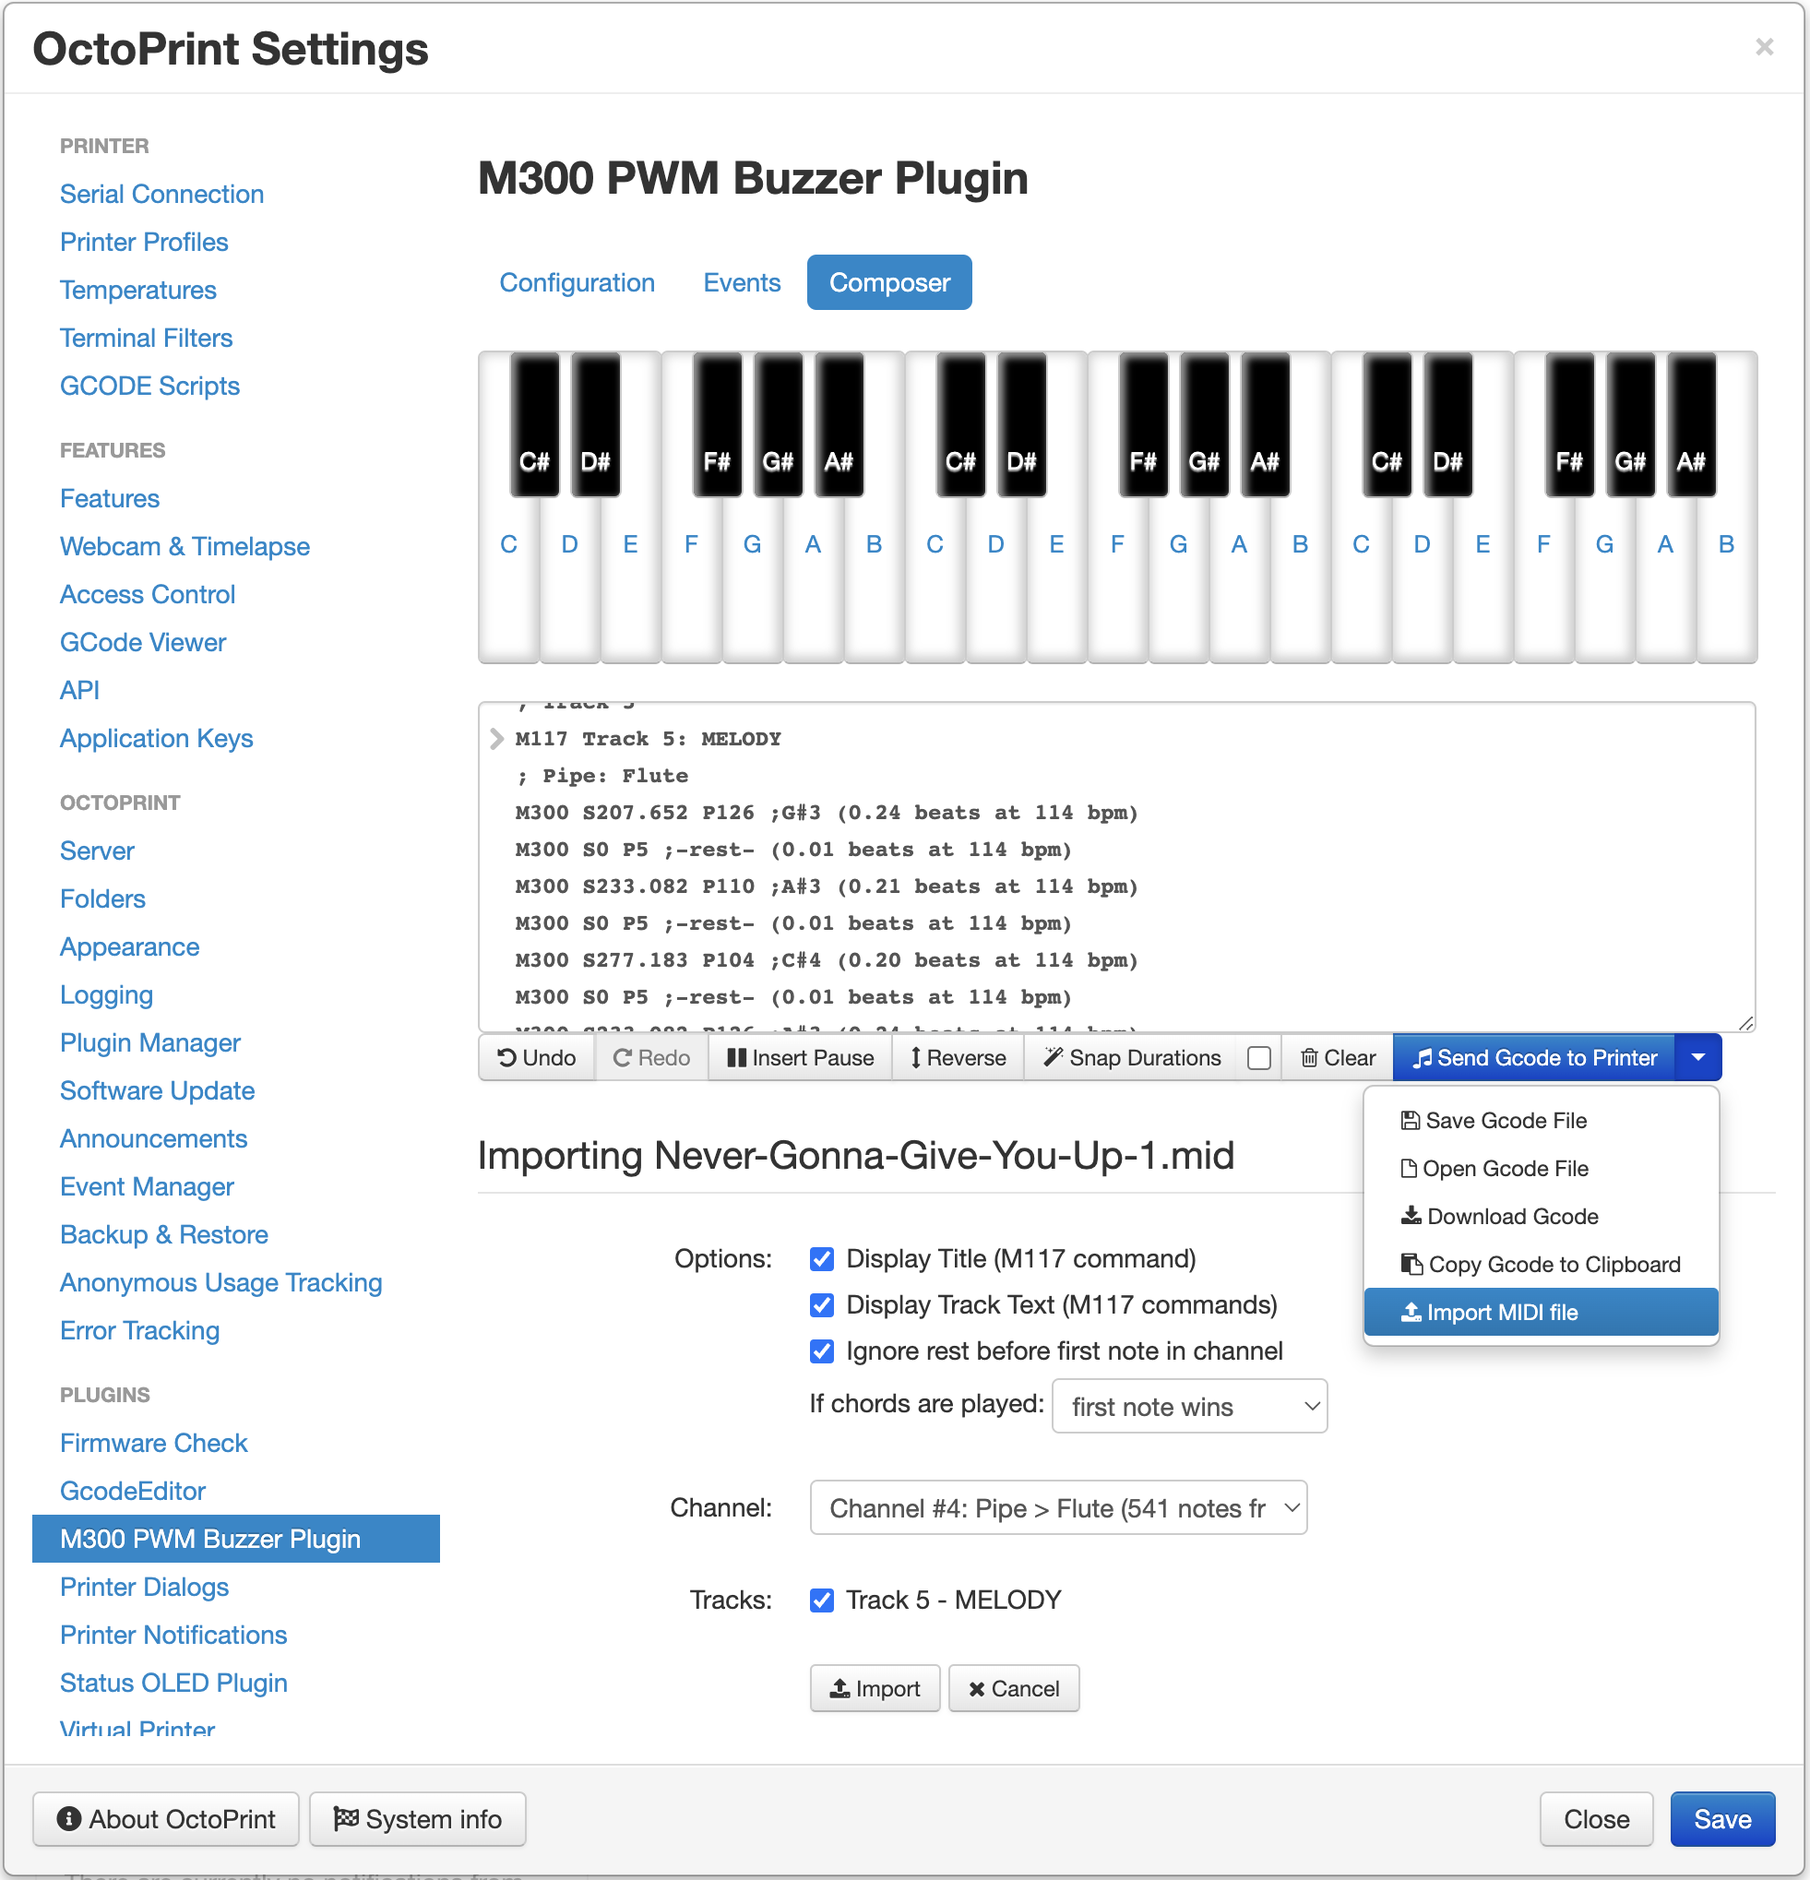
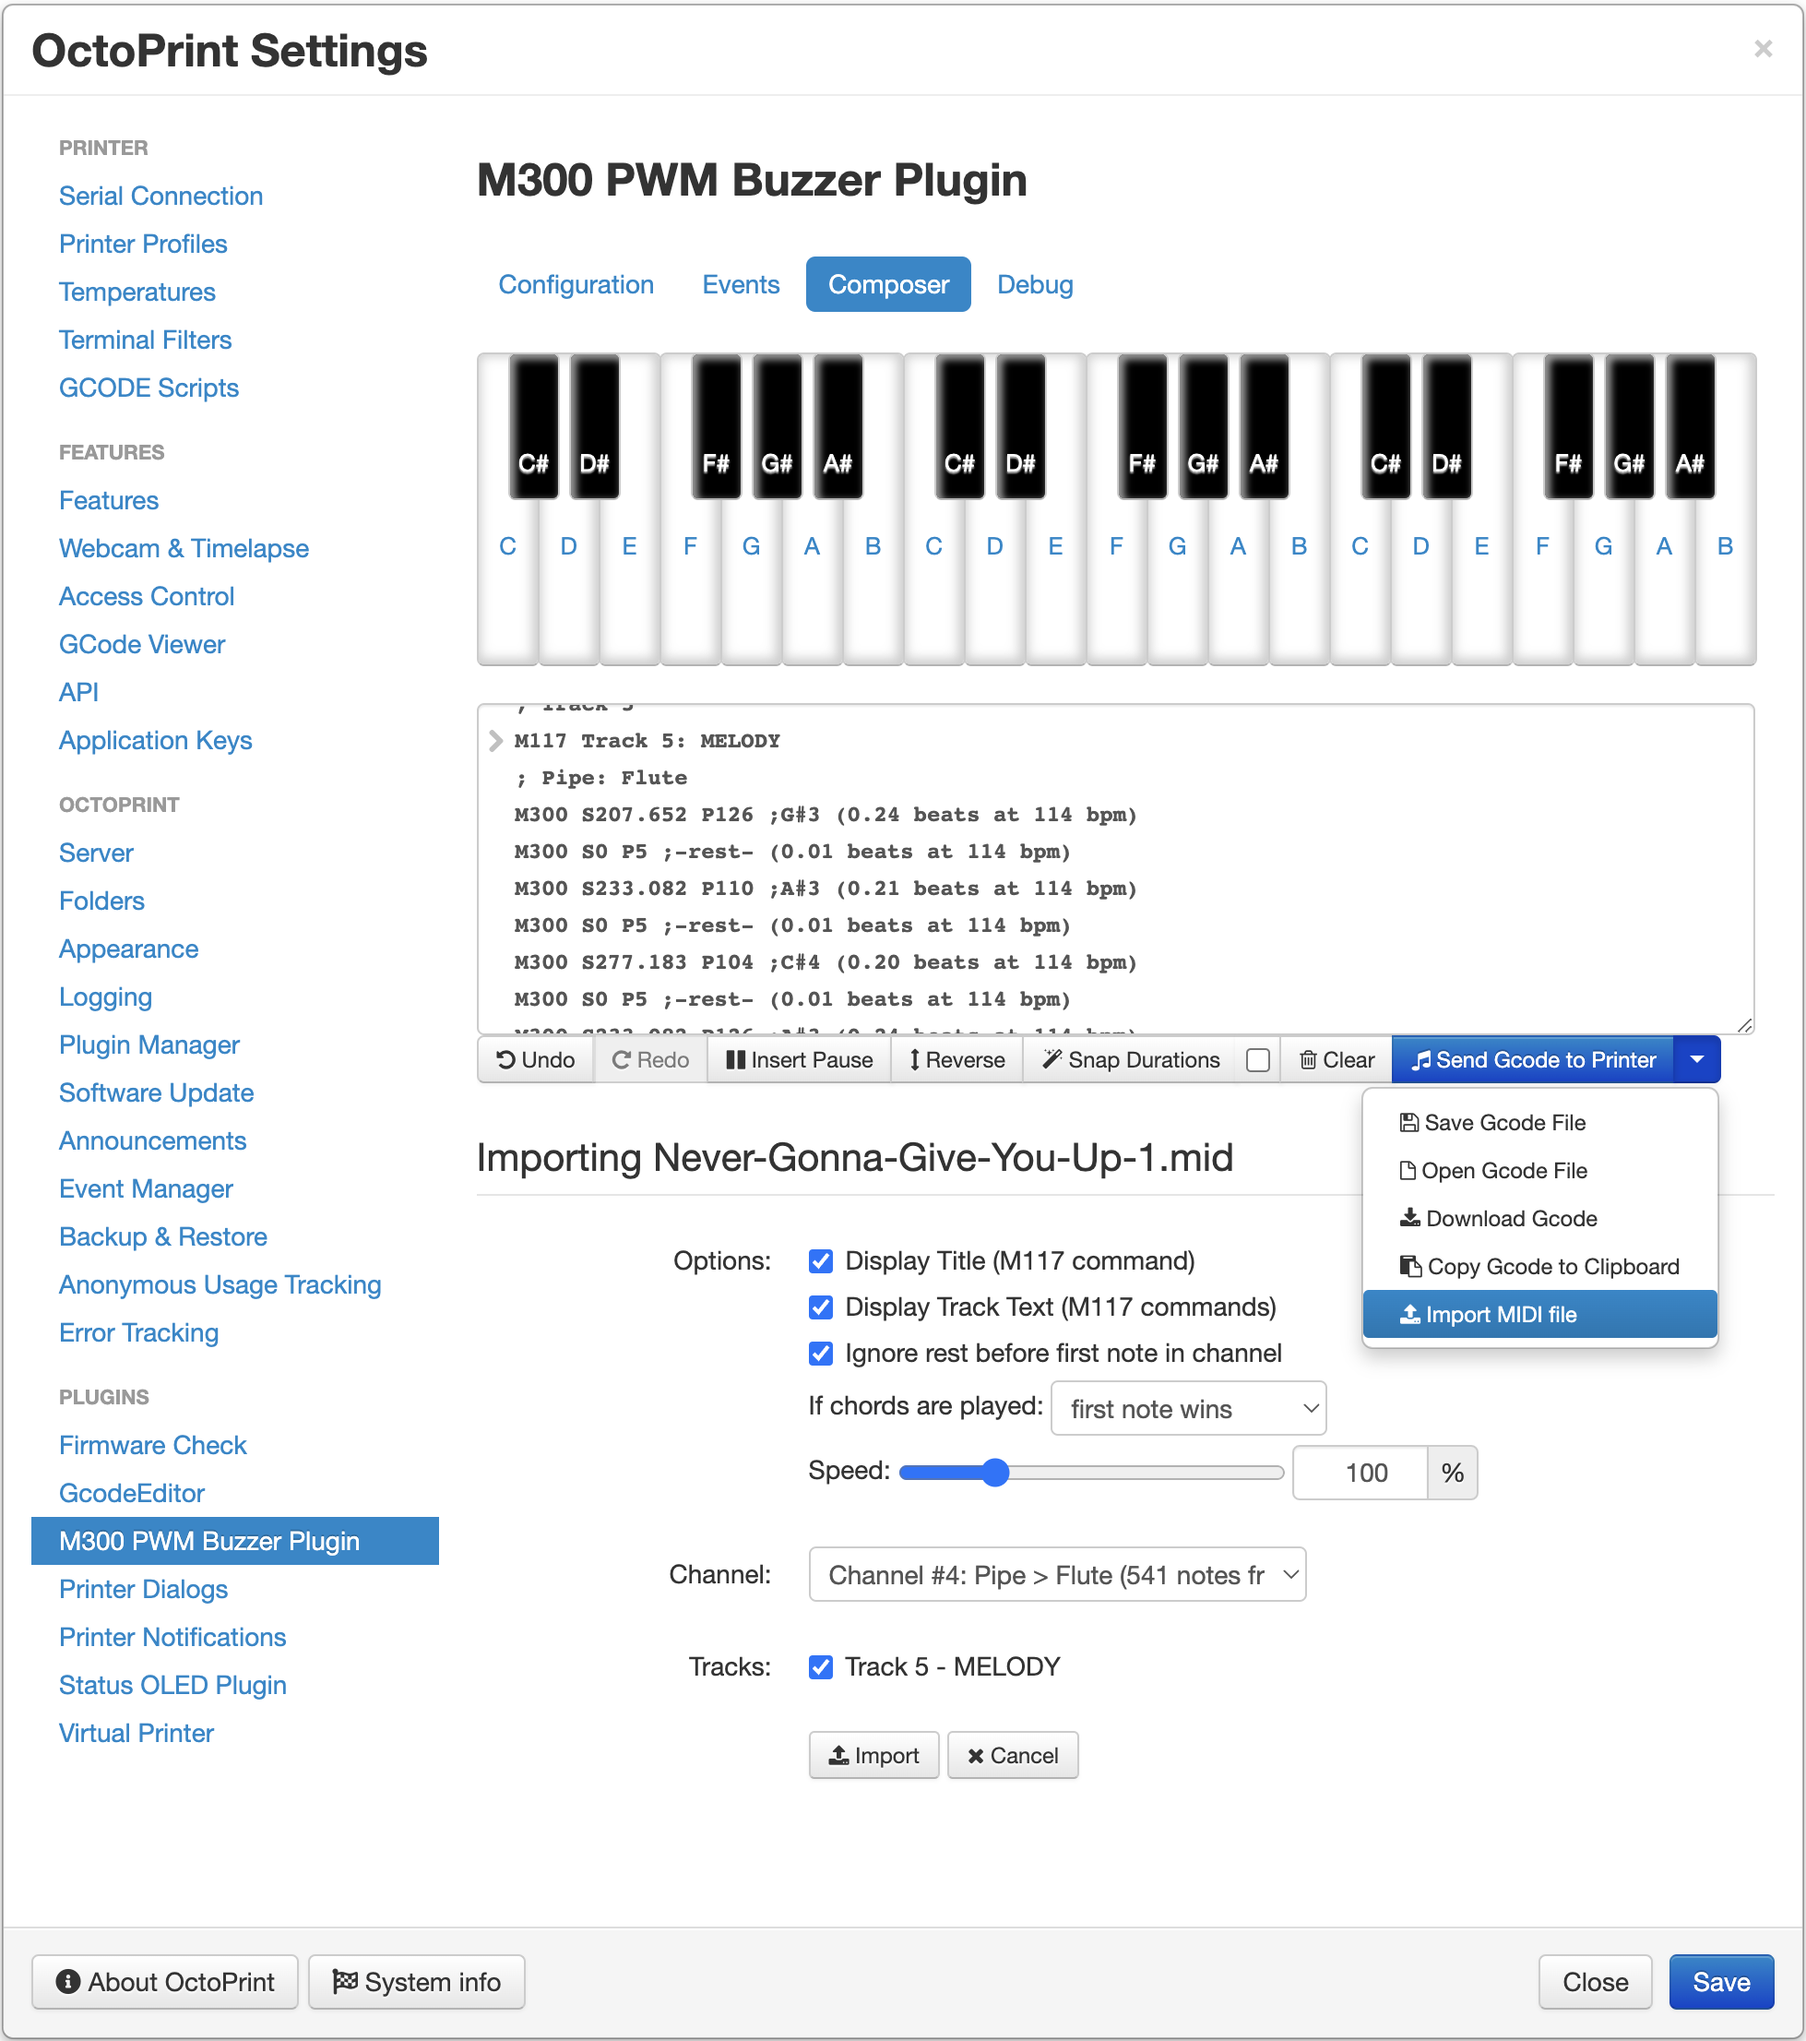
add speed adjustment option for MIDI imports

diff --git a/octoprint_pwmbuzzer/static/js/midi/channel.js b/octoprint_pwmbuzzer/static/js/midi/channel.js
@@ -80,6 +80,7 @@ function MidiChannel(id, port = 0) {
     self.generateTune = function(gcode, timings, options = {}) {
         var lastNoteTicks = 0;
         var lastProgram = 0;
+        var speedFactor = options.speed() / 100;
 
         // filter to only selected tracks
         var keepTracks = new Set(self.selectedTracks());
@@ -125,7 +126,7 @@ function MidiChannel(id, port = 0) {
             if (note.start > lastNoteTicks) {
                 restTicks = note.start - lastNoteTicks;
                 if (lastNoteTicks > 0 || !options.skipInitialRest()) {
-                    var restDuration = timings.calcDuration(restTicks, lastNoteTicks);
+                    var restDuration = timings.calcDuration(restTicks, lastNoteTicks, speedFactor);
                     gcode.outputRest(restDuration);
                 }
             }
@@ -135,7 +136,7 @@ function MidiChannel(id, port = 0) {
             } else if (nextNote && nextNote.start === note.start && !options.firstNoteWins()) {
                 continue;
             }
-            var playDuration = timings.calcDuration(playTicks, note.start);
+            var playDuration = timings.calcDuration(playTicks, note.start, speedFactor);
             gcode.outputTone(note.note, playDuration);
 
             lastNoteTicks += restTicks + playTicks;

diff --git a/octoprint_pwmbuzzer/static/js/midi/timings.js b/octoprint_pwmbuzzer/static/js/midi/timings.js
@@ -37,10 +37,10 @@ function MidiTimings() {
         return bpms[i].bpm;
     }
 
-    self.calcDuration = function(ticks, currentTick) {
+    self.calcDuration = function(ticks, currentTick, speedFactor = 1) {
         if (timeDivision.type === "ticksPerBeat") {
             var beats = ticks / timeDivision.ticksPerBeat;
-            var bpm = self.getBpmAtTicks(currentTick);
+            var bpm = self.getBpmAtTicks(currentTick) * speedFactor;
             var ms = (beats / (bpm / 60)) * 1000;
             return {
                 bpm: Math.round(bpm),

diff --git a/octoprint_pwmbuzzer/static/js/midi/importer.js b/octoprint_pwmbuzzer/static/js/midi/importer.js
@@ -86,6 +86,7 @@ function MidiImporter(observable, debug = false) {
                 options.displayTrackText = ko.observable(true);
                 options.skipInitialRest = ko.observable(true);
                 options.firstNoteWins = ko.observable(true);
+                options.speed = ko.observable(100);
 
                 resolve();
             }

diff --git a/README.md b/README.md
@@ -105,7 +105,9 @@ The "Display Title" option just includes the MIDI file's name as an M117 command
 
 Since each channel often represents a single instrument, you might find that your desired channel doesn't start right away (e.g. if you select a melody channel that starts after an intro from other channels).  "Ignore rest before first note in channel" allows you to skip the very first pause that would normally line the channel up with the others.
 
-Finally, most MIDI devices are polyphonic and support playing multiple notes at the same time, so imported files may contain data for notes that are started at the same time.  M300 commands are monophonic as they are handled in serial and only support a single tone at one time.  The "if chords are played" option lets you choose if the first or last note encountered should be given preference when generating tunes from the important data.
+Most MIDI devices are polyphonic and support playing multiple notes at the same time, so imported files may contain data for notes that are started at the same time.  M300 commands are monophonic as they are handled in serial and only support a single tone at one time.  The "if chords are played" option lets you choose if the first or last note encountered should be given preference when generating tunes from the important data.
+
+Finally, if you find the tune you generate is a little too slow (or too fast), you can use the "speed" slider to adjust the relative beats per minute (bpm) values when importing.
 
 Try it out with this sample MIDI file:
 

diff --git a/extras/pwmbuzzer.md b/extras/pwmbuzzer.md
@@ -152,7 +152,9 @@ The "Display Title" option just includes the MIDI file's name as an M117 command
 
 Since each channel often represents a single instrument, you might find that your desired channel doesn't start right away (e.g. if you select a melody channel that starts after an intro from other channels).  "Ignore rest before first note in channel" allows you to skip the very first pause that would normally line the channel up with the others.
 
-Finally, most MIDI devices are polyphonic and support playing multiple notes at the same time, so imported files may contain data for notes that are started at the same time.  M300 commands are monophonic as they are handled in serial and only support a single tone at one time.  The "if chords are played" option lets you choose if the first or last note encountered should be given preference when generating tunes from the important data.
+Most MIDI devices are polyphonic and support playing multiple notes at the same time, so imported files may contain data for notes that are started at the same time.  M300 commands are monophonic as they are handled in serial and only support a single tone at one time.  The "if chords are played" option lets you choose if the first or last note encountered should be given preference when generating tunes from the important data.
+
+Finally, if you find the tune you generate is a little too slow (or too fast), you can use the "speed" slider to adjust the relative beats per minute (bpm) values when importing.
 
 Try it out with this sample MIDI file:
 
